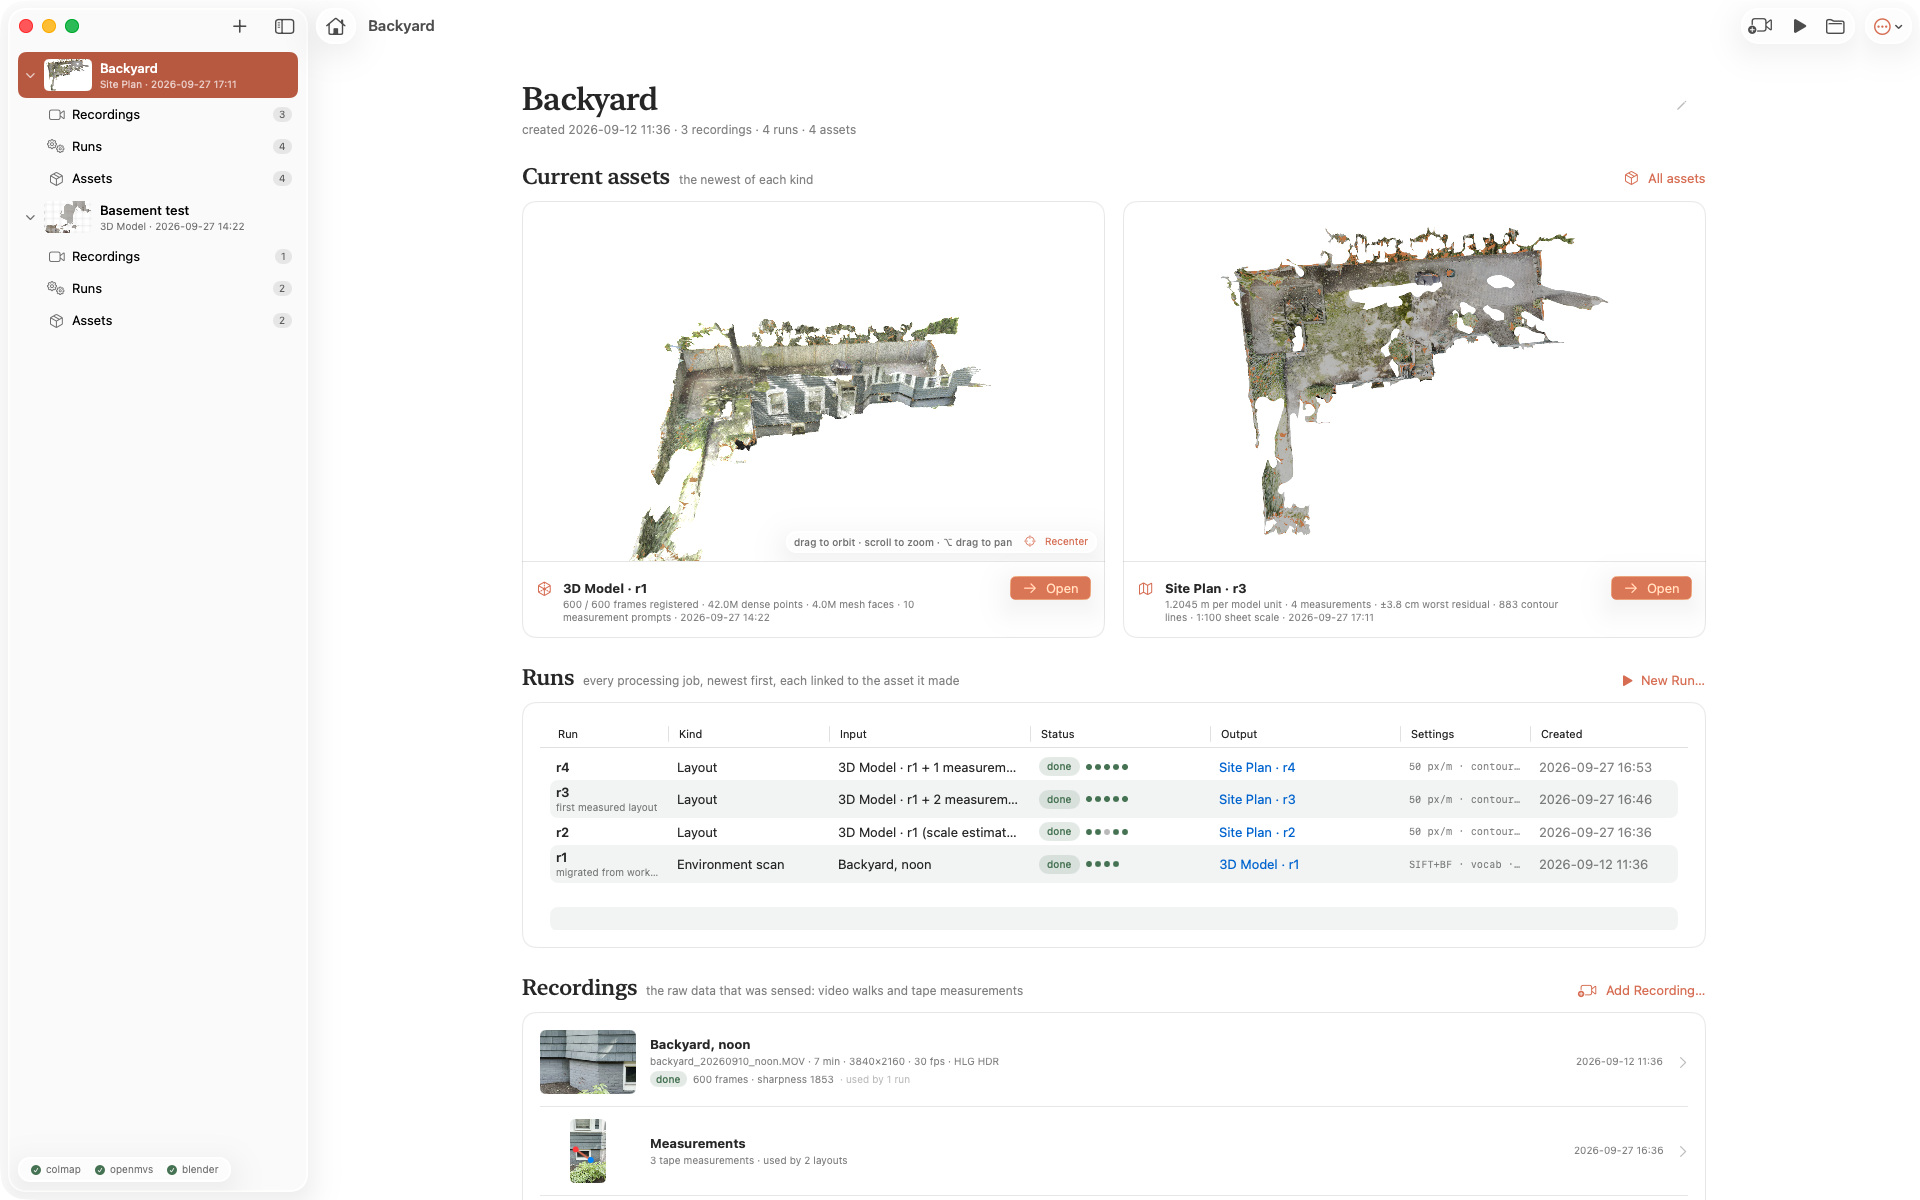
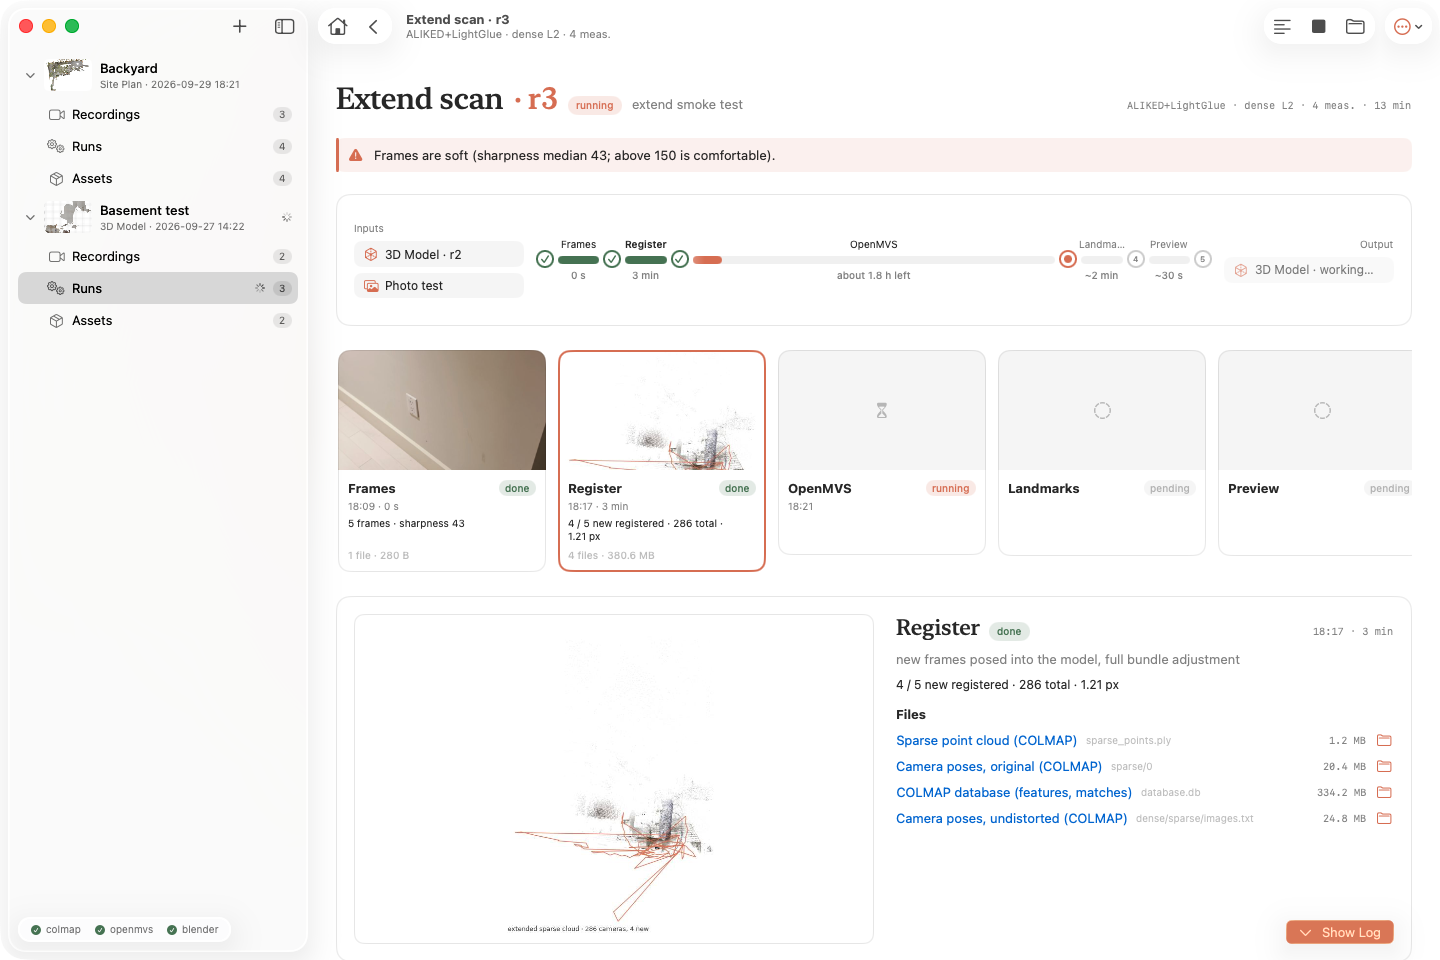
Docs: recipes, extend run, chains, stage previews; what an accurate site plan needs; fresh screenshots

diff --git a/docs/COMPUTATIONS.md b/docs/COMPUTATIONS.md
@@ -3,7 +3,39 @@
 Design for the three runs Tricorder performs on an environment, the two assets they produce, and how measurement
 works. Decided 2026-09-27: asset names **3D Model** and **Site Plan**; extend scans re-optimise everything (geometry
 over frame stability); 0.25 m contours, 1:100 sheets. Step 1 (vocabulary, constraints file, real site-plan outputs)
-is implemented; steps 2 and 3 are still design.
+and step 3 (extend, photo recordings) are implemented; step 2 (measuring in the viewer) is still design.
+
+## Runs are recipes (2026-09-29)
+
+A run kind is a *recipe*: input **slots** (what it consumes, by recording or asset kind, with counts), **stages**, and
+one output asset kind. `RUN_KINDS` in `tricorder/models.py` is the single definition; the app mirrors it
+(`RunKind.slots`) and builds its "New run" sheet from it: pick a recipe, drag the inputs from the bucket of what the
+environment has into the slots, the stage rail turns from grey to colour when every required slot is filled, start.
+
+| recipe | slots | stages | output |
+|---|---|---|---|
+| Environment scan | video ×1 | frames · sfm · dense · landmarks · preview | 3D Model |
+| Extend scan | 3D model ×1 · new footage (video or photos) ×1–8 | frames (per new recording) · register · dense · landmarks · preview | 3D Model (`derived_from` the input) |
+| Layout | 3D model ×1 · measurements ×0–8 | solve · ortho · trace · draw · preview | Site Plan |
+| Site plan from video | video ×1 · measurements ×0–8 | a *chain*: a scan run, then a layout run | Site Plan (and the 3D Model on the way) |
+
+**Chains.** "Site plan from video" is not a fourth run kind: the ontology stays *one run publishes one asset*. The app
+creates two runs; the layout's asset slot holds `@r5` (the output of run r5) and the run is `queued`. When r5
+publishes, `pipeline.py` launches every queued run that waits for it (`_launch_dependants`); at start the `@r5` is
+resolved to the real asset id. The run page shows the chain ("after scan r5" / "then layout r6").
+
+**Photos are recordings** (kind `photos`): a folder of stills copied into the environment; the frames stage converts
+them (HEIC through `sips`), caps the long side, scores sharpness, and writes the same `frames.csv` a video gets. Only an
+extend scan takes them (a photo set alone rarely has the overlap a scan needs; that can change).
+
+**Every stage records what it left behind.** `Stage.outputs` lists the files (from `STAGE_OUTPUTS`) with sizes and
+labels, and `Stage.preview` names a small picture rendered right after the stage by `tricorder/previews.py`: the
+sparse cloud with the camera path (sfm, register), a sub-sample of the dense cloud (dense), the levelled plan
+(landmarks), the measurement residuals (solve), the orthomosaic (ortho), the walls and the dimensioned boundary over
+it (trace), the PDF sheet (draw). The app's run page is built on these: a progress bar whose segments are sized by
+how long each stage usually takes in that environment (median of past runs, else a typical figure), a milestone at
+every stage boundary, a card per stage with its preview, numbers and files, and the log only on request (⌘L).
+`python -m tricorder.previews <env> <run>` renders them for runs made before this existed.
 
 ## Vocabulary
 
@@ -34,7 +66,7 @@ Runs (a run consumes recordings and/or assets and publishes one asset):
 | **Extend scan** | `extend` | a 3D model + one or more new recordings (video or photos) | a new 3D model | frames, register, dense, landmarks, preview |
 | **Layout** | `layout` | a 3D model + measurement recordings | site plan | solve, ortho, trace, draw, preview |
 
-`scan` and `layout` exist; `extend` is design.
+All three exist. `extend` is `scripts/02b_register.sh` inside the `register` stage (below).
 
 ## 1. Environment scan (video → 3D model)
 
@@ -67,17 +99,25 @@ constraint *points* can be re-projected into the new frame via their frames' new
 as suggestions). Time is acceptable; geometry is what matters.
 
 1. *frames*: extract frames from each new recording (photos: convert HEIC → JPEG, cap the long side).
-2. *register*: copy the mesh asset's `database.db` and `sparse/` into the run; `feature_extractor` on the new
-   images only (same feature type as the original, it is recorded in the asset); `vocab_tree_matcher` of the new
-   images against **all** images plus `sequential_matcher` within each new video; `image_registrator` to pose the
-   new images into the existing model; `point_triangulator` for the new tracks; a full `bundle_adjuster` over old
-   and new images; `image_undistorter` for the union.
+2. *register* (`scripts/02b_register.sh`, implemented 2026-09-29): the run's `images/` is the union, the parent's
+   frames under the names its database knows (flat) and each new recording's frames under `<rec>/`; the parent
+   asset's `database.db` and `sparse/0` are APFS-cloned into the run; `feature_extractor` on the new images only
+   (`--image_list_path`, one camera per recording folder, **the parent's feature type**: its database and vocab
+   index are SIFT or ALIKED, not both, so the run's features setting is overwritten from the parent's run);
+   `sequential_matcher` over the whole set (COLMAP skips pairs already matched) and `vocab_tree_matcher` of the new
+   images against everything (`--match_list_path`); `image_registrator` poses the new images in the parent's frame;
+   `point_triangulator`; a full `bundle_adjuster`; `image_undistorter` for the union. Result in `sparse/0`.
 3. *dense*: OpenMVS on the union, all depth maps recomputed (the poses moved); mesh, clean and texture.
 4. *landmarks* and *preview* as in a scan.
 
-Output: `model3d-2`, with `derived_from: model3d-1`. Measurements from the parent are re-projected into the new
-frame through their frames' new poses and offered as suggestions to confirm. Quality metrics on the run: registered new frames, new dense points, mesh faces before /
-after, and a coverage number (fraction of the previous footprint that got a second look).
+Output: `model3d-2`, with `derived_from: model3d-1` and `sources` naming every recording and the name prefix its
+frames carry in the database (so a further extend, and snapshot measuring, find the right images). Measurement
+items still refer to (recording, frame); `measure_project.py` looks frames up by database name, so items on the
+parent's video keep working on the extended model; items on the new footage need the prefix (to do).
+Metrics on the register stage: `new_images`, `new_registered`, total `registered`, reprojection error.
+
+Smoke test (2026-09-29, Basement test, ALIKED model, 5 of its own frames re-imported as a photos recording): register
+3 min (4 of the 5 registered, 282 → 286 images, 1.21 px), then the usual dense / landmarks / preview.
 
 If the user wants a *cleaner* mesh from the same footage (other features, other dense level), that is simply a
 new `scan` run; it produces a new frame and the measurements do not carry over.
@@ -166,6 +206,40 @@ the image, both in metres), and offers Open in QCAD / Blender / Preview.
    the layout run, constraints file with sources, app overlay of contours and measurement lines.
 2. **Measure in the viewer and on snapshots**: hit-test picking in SceneKit, pixel-to-mesh raycasting helper
    (`python -m tricorder.measure project <asset> <frame> <u> <v>`), the measurement list UI with residuals.
-3. **Extend scan**: incremental registration with fixed old poses, depth-map reuse, photo recordings,
-   `derived_from` chains and measurement inheritance.
+3. **Extend scan**: done (2026-09-29) as designed in B, except that measurement inheritance across the prefix is still to do.
+4. **An accurate site plan**: see the next section.
+
+## 4. Towards an accurate site plan (2026-09-29)
+
+The current boundary comes from the *ground footprint* (where the dense cloud has points within 0.35 m of the ground),
+regularised and snapped to the detected walls. That is why it looks wrong where the cloud is incomplete: under the
+canopy along the house, in the side passages, wherever the walk did not look. The walls themselves (vertical
+surfaces → RANSAC lines) are right where they exist: the three fence sides of the backyard come out as single
+straight segments at the site axis with lengths that agree with the tape.
+
+Tried today: a **wall-first boundary** (`wall_first_boundary` in `10_trace_walls.py`): keep the walls that run
+along the footprint's outline (within 1.2 m, within 30° of its tangent, at least 1.5 m long), order them around the
+yard, join consecutive walls at the intersection of their lines when they meet at an angle, with a perpendicular jog
+when they are parallel and offset, and follow the ground's outline only across long gaps that the outline does not
+detour around. On the backyard it gives 13 sides instead of 17 and gets the three fence sides exactly (19.09 m,
+11.07 m, 6.17 m) but draws diagonals across the house side and the passage, where the walls are short pieces
+(porch, bay window, gate posts) and the footprint fills in. It is written to `linework.json` as `wall_boundary` next
+to the footprint boundary (`polygons[0]`, still the one drawn), so the two can be compared on other sites.
+
+What a human does when tracing is two things: geometry (where is the line: solved) and *semantics* (which lines are
+the perimeter, which jog is a bay window and which is a hole in the data). The plan to close the gap:
+
+1. **Label the walls** with the identify prototype (`12_identify.py`: Grounding DINO + SAM lifted through the poses):
+   each wall segment gets a label (fence, house, hedge, shed, gate) from the masks that hit it. The perimeter is then
+   the chain of *fence* and *house* segments; a *gate* segment bridges a gap in a fence; nothing inside counts.
+2. **Close the house side from the facade**, not the ground: the house facade is a tall vertical surface (3 m) with
+   short jogs (porch, bay); a dedicated pass with `--min-height 2.0` finds it as one polyline with jogs.
+3. **Edit in the app**: a plan editor over the orthomosaic with the candidate walls faint underneath and snapping
+   to them; drag a vertex, delete a side, add a line. Edits are saved with the site plan asset
+   (`linework_edits.json`) and the draw stage re-runs from them. The geometry underneath is metric, so a hand-traced
+   plan is exact; the automatic tracer is a first draft that gets closer each time.
+
+Direct "video → 2D map" without the 3D model is not a shortcut worth taking: the plan's accuracy comes from the
+poses and the dense geometry, and no image-only model is metric or knows the yard's fences. The "Site plan from
+video" recipe gives the one-step experience on top of the same computation.
 

diff --git a/README.md b/README.md
@@ -11,15 +11,18 @@ Open source end to end, runs on an Apple Silicon Mac, no NVIDIA GPU.
 |---|---|
 | ![Home: every environment with its latest plan](docs/home.png) | ![Environment page: current assets, runs, recordings](docs/environment.png) |
 | *Home: every place you have scanned* | *An environment: what it is now, how it got there, what was sensed* |
-| ![A run: input, stages, output, live log](docs/run.png) | ![A recording: the video, its frames, the runs on it](docs/recording.png) |
-| *A run: what went in, the stages, what came out* | *A recording: the raw footage, its frames, every run on it* |
+| ![A run: inputs, a progress rail with a milestone per stage, a card per stage with its preview and files](docs/run.png) | ![A recording: the video, its frames, the runs on it](docs/recording.png) |
+| *A run: inputs → stages → output, a preview and the files of every stage, the log on request* | *A recording: the raw footage, its frames, every run on it* |
 
 ---
 
 ## How it works
 
-Two kinds of run. A **scan** turns a video into a 3D model. A **layout** turns a 3D model plus tape measurements
-into a site plan. Everything is a stage script under `scripts/`, orchestrated by `tricorder/pipeline.py`.
+Three kinds of run, each a recipe with input slots. A **scan** turns a video into a 3D model. An **extend scan**
+registers new videos or photos into an existing 3D model and re-meshes it. A **layout** turns a 3D model plus tape
+measurements into a site plan. "Site plan from video" chains a scan and a layout. Everything is a stage script under
+`scripts/`, orchestrated by `tricorder/pipeline.py`; every stage leaves a preview picture and a file list behind,
+which is what the app's run page shows.
 
 ```
  iPhone video (4K, 30 fps)
@@ -91,8 +94,8 @@ An **environment** is a place you scan. It holds three things, all local and git
 
 | | what | where |
 |---|---|---|
-| **Recordings** | raw sensed data: an iPhone video (copied in, its metadata, the frames extracted from it), or a set of tape measurements marked on a video's frames | `work/environments/<env>/recordings/<rec>/` |
-| **Runs** | processing jobs. A **scan** turns a video recording into a 3D model; a **layout** turns a 3D model plus measurement recordings into a site plan. A run has stages, logs, settings and working files, and publishes exactly one asset | `work/environments/<env>/runs/<run>/` |
+| **Recordings** | raw sensed data: an iPhone video (copied in, its metadata, the frames extracted from it), a set of photos, or tape measurements marked on a video's frames | `work/environments/<env>/recordings/<rec>/` |
+| **Runs** | processing jobs, each a recipe with input slots. A **scan** turns a video recording into a 3D model; an **extend scan** registers new videos or photos into a 3D model and re-meshes it; a **layout** turns a 3D model plus measurement recordings into a site plan. A run has stages (each with its metrics, files and a preview picture), logs, settings and working files, and publishes exactly one asset. A run can wait for another's output (`@r5`) and is launched when it publishes: that is how "Site plan from video" chains a scan and a layout | `work/environments/<env>/runs/<run>/` |
 | **Assets** | what runs produce: a **3D Model** (`model3d`) or a **Site Plan** (`site_plan`). Files are APFS clones of the run's deliverables, so an asset costs no extra disk | `work/environments/<env>/assets/<asset>/` |
 
 Assets are never overwritten: laying out again publishes `site_plan-2` and `site_plan-1` stays as history. The
@@ -120,8 +123,11 @@ A native SwiftUI app (macOS 26). The sidebar lists environments, each with *Reco
 environment page shows the current assets on top (the 3D model in an orbitable SceneKit viewer, the site plan as an
 image), then every run linked to the asset it made, then the recordings. A 3D Model page has the viewer, the metrics,
 and *Lay Out Site Plan*; a Site Plan page draws the boundary, walls, contours, grid and measurements over the
-orthomosaic, lets you rotate the plan to align with any edge, and opens the DXF and PDF; a run page has the stage
-chips and the live log.
+orthomosaic, lets you rotate the plan to align with any edge, and opens the DXF and PDF. A run page is the pipeline:
+inputs → a progress bar with a milestone per stage (segments sized by how long each stage usually takes in that
+environment) → output, a card per stage with a preview of what it produced, its numbers and files, and the log on
+request (⌘L). *New run* is a builder: pick a recipe, drag the inputs from the environment's recordings and assets
+into its slots, and the stage rail turns from grey to colour when every required slot is filled.
 
 The app watches `work/environments` with FSEvents and starts work through `python -m tricorder.pipeline launch …`
 (detached, under `caffeinate`), so quitting the app never kills a run. On first launch it asks for the checkout
@@ -141,6 +147,10 @@ make layout ENV=backyard ASSET=model3d-1 MEAS="rec2 rec3"       # site plan; omi
 make list                                                       # environments, recordings, runs, assets
 python -m tricorder.pipeline new-run backyard scan --recording rec1 --features ALIKED --matcher LIGHTGLUE --start
 python -m tricorder.pipeline new-recording backyard data/evening.MOV --name "Evening walk"
+python -m tricorder.pipeline new-recording backyard data/shed-photos/ --name "Shed close-ups"   # a photos recording
+python -m tricorder.pipeline new-run backyard extend --asset model3d-1 --recordings rec3 --start   # register them into the model
+python -m tricorder.pipeline new-run backyard layout --asset @r5 --recordings rec2            # chained: runs when r5 publishes
+python -m tricorder.previews backyard r1                                                       # stage previews for an older run
 python -m tricorder.pipeline new-measurements backyard --name "Tape, Saturday"   # then add items in the app
 make migrate                                                    # old work/scans layout -> work/environments
 ```
@@ -221,6 +231,17 @@ Measured on a 286-frame basement test (white walls, soft frames):
 On a 434 s, 600-frame backyard walk with the default settings: 600 of 600 registered in one model, COLMAP 75 min,
 dense 40 min, texturing 14 min after decimation.
 
+## The extend run
+
+Input: a 3D Model asset and one or more new recordings (videos or photos). Output: a new 3D Model asset, marked as
+derived from the input. **register** (`02b_register.sh`) clones the parent's COLMAP database and poses, extracts
+features for the new frames only (the parent's feature type; one camera per recording), matches them against
+everything (sequential plus vocab-tree retrieval), poses them with `image_registrator`, triangulates their tracks,
+and runs a full bundle adjustment over old and new; then **dense**, **landmarks** and **preview** as in a scan. The
+asset records which recordings its frames came from and the name prefix each has in the database, so a further
+extend and snapshot measuring find the right images. Photos (`01b_import_photos.py`) are converted from HEIC with
+`sips`, capped at 4032 px and sharpness-scored like video frames.
+
 ## The layout run
 
 Input: a 3D Model asset and zero or more measurement recordings. Output: a Site Plan asset.
@@ -243,7 +264,10 @@ Input: a 3D Model asset and zero or more measurement recordings. Output: a Site 
    rasterised and traced as the boundary polygon, which always closes across gates and porches; it is simplified,
    regularised to the direction families, jogs shorter than `min_edge_m` (1.2 m) absorbed unless a detected wall
    supports them, and every side snapped onto its wall line. Loops the walls close on their own (a shed, a raised
-   bed) become enclosures via shapely and buildingregulariser. Every side carries its length. Output `linework.json`.
+   bed) become enclosures via shapely and buildingregulariser. Every side carries its length. Output `linework.json`,
+   which also holds `wall_boundary`: the same outline traced from the perimeter walls themselves (chained corner to
+   corner, the ground only across gaps). It gets the fence sides exactly and the house side wrong, so it is kept
+   for comparison, not drawn; the plan to close that gap is in `docs/COMPUTATIONS.md` §4.
 4. **draw** (`08_site_plan.py`): DEM on a 5 cm grid (`dem.tif`, 32-bit metres), contour lines at `contour_m`
    (0.25 m, index contours every fourth), footprint, the ESRI world file `orthomosaic.pgw`, `site_plan.dxf` and a
    two-page `site_plan.pdf` at 1:100 on A2 (or the largest of 1:50 / 100 / 200 / 500 that fits): the orthomosaic
@@ -323,7 +347,7 @@ Both are described, with results on the backyard, in the second part of
 ## Repository layout
 
 ```
-tricorder/      data model (models.py), orchestrator (pipeline.py), stage metrics, migration
+tricorder/      data model (models.py), orchestrator (pipeline.py), stage metrics and previews, migration
 scripts/        the stage scripts, numbered in pipeline order, plus helpers
 app/            the Mac app (SwiftUI); project.yml is the XcodeGen spec
 docs/           design notes, research, screenshots
